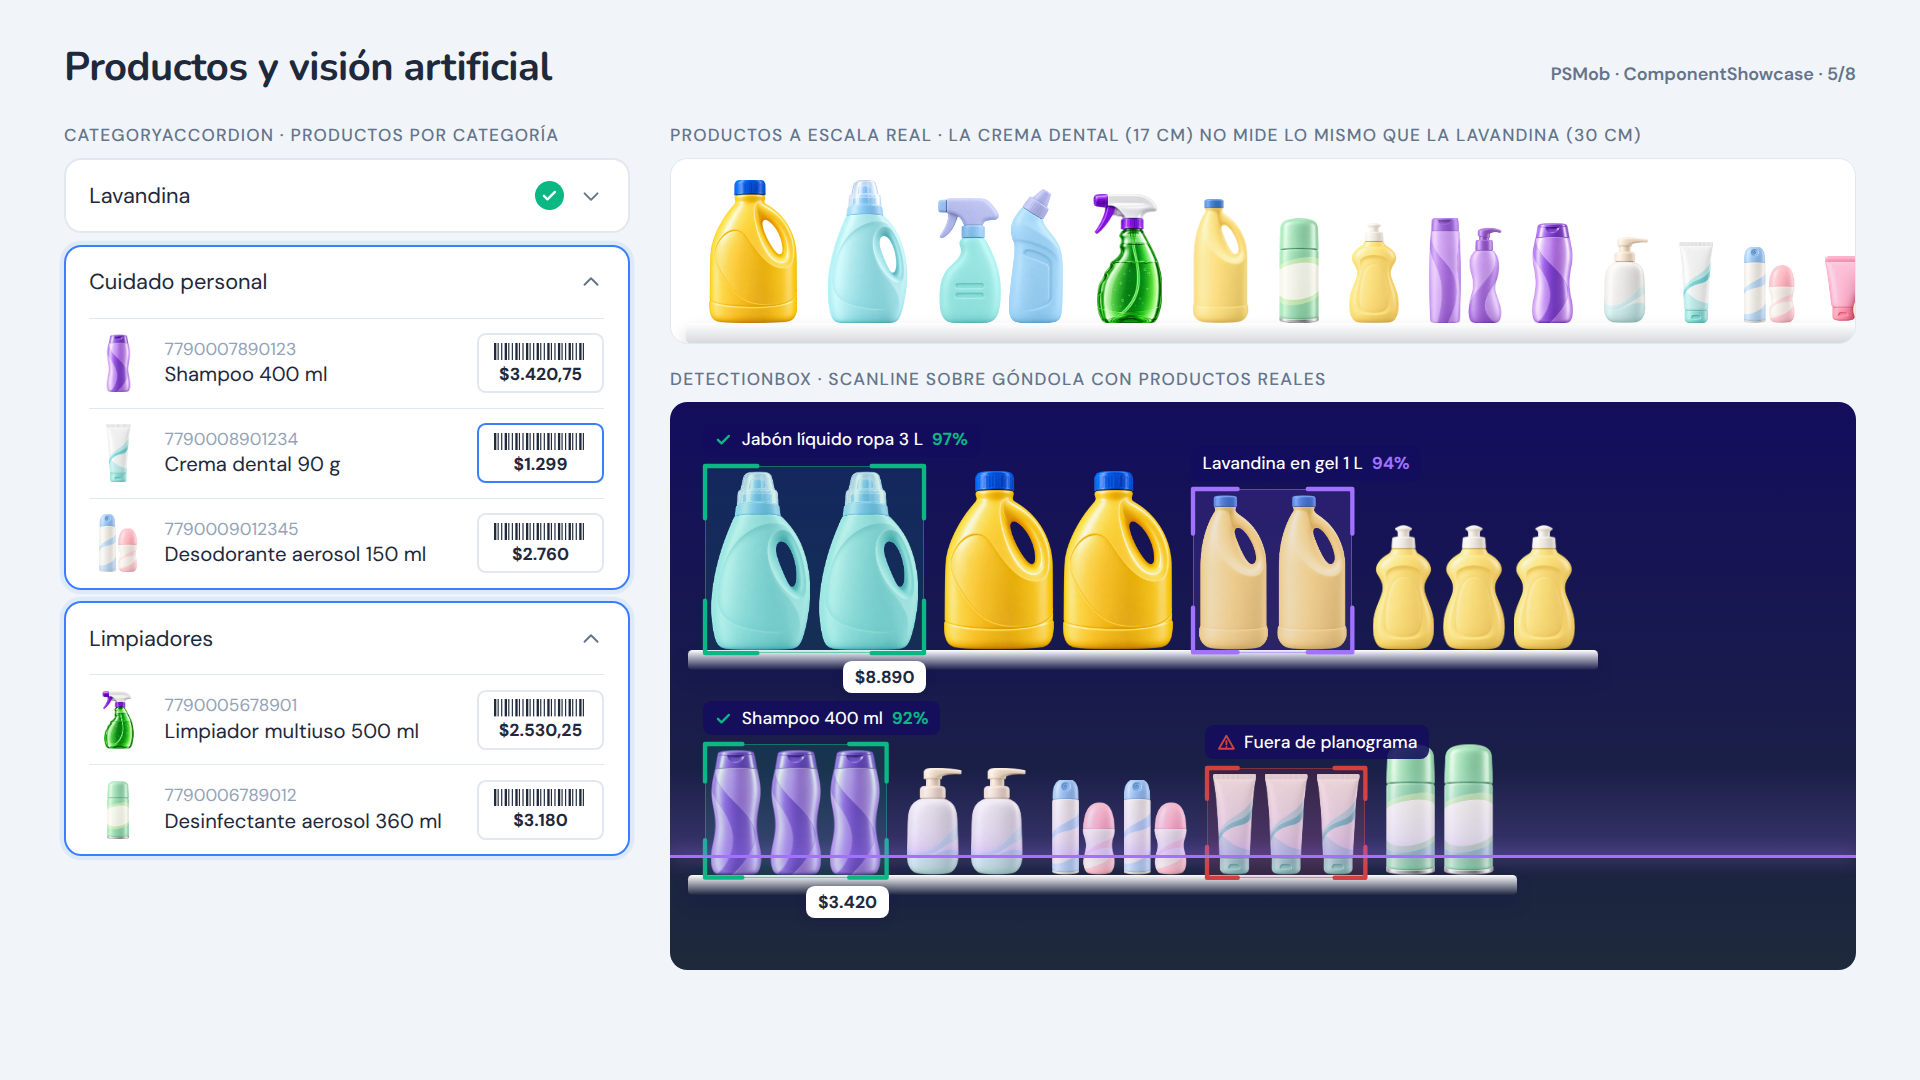
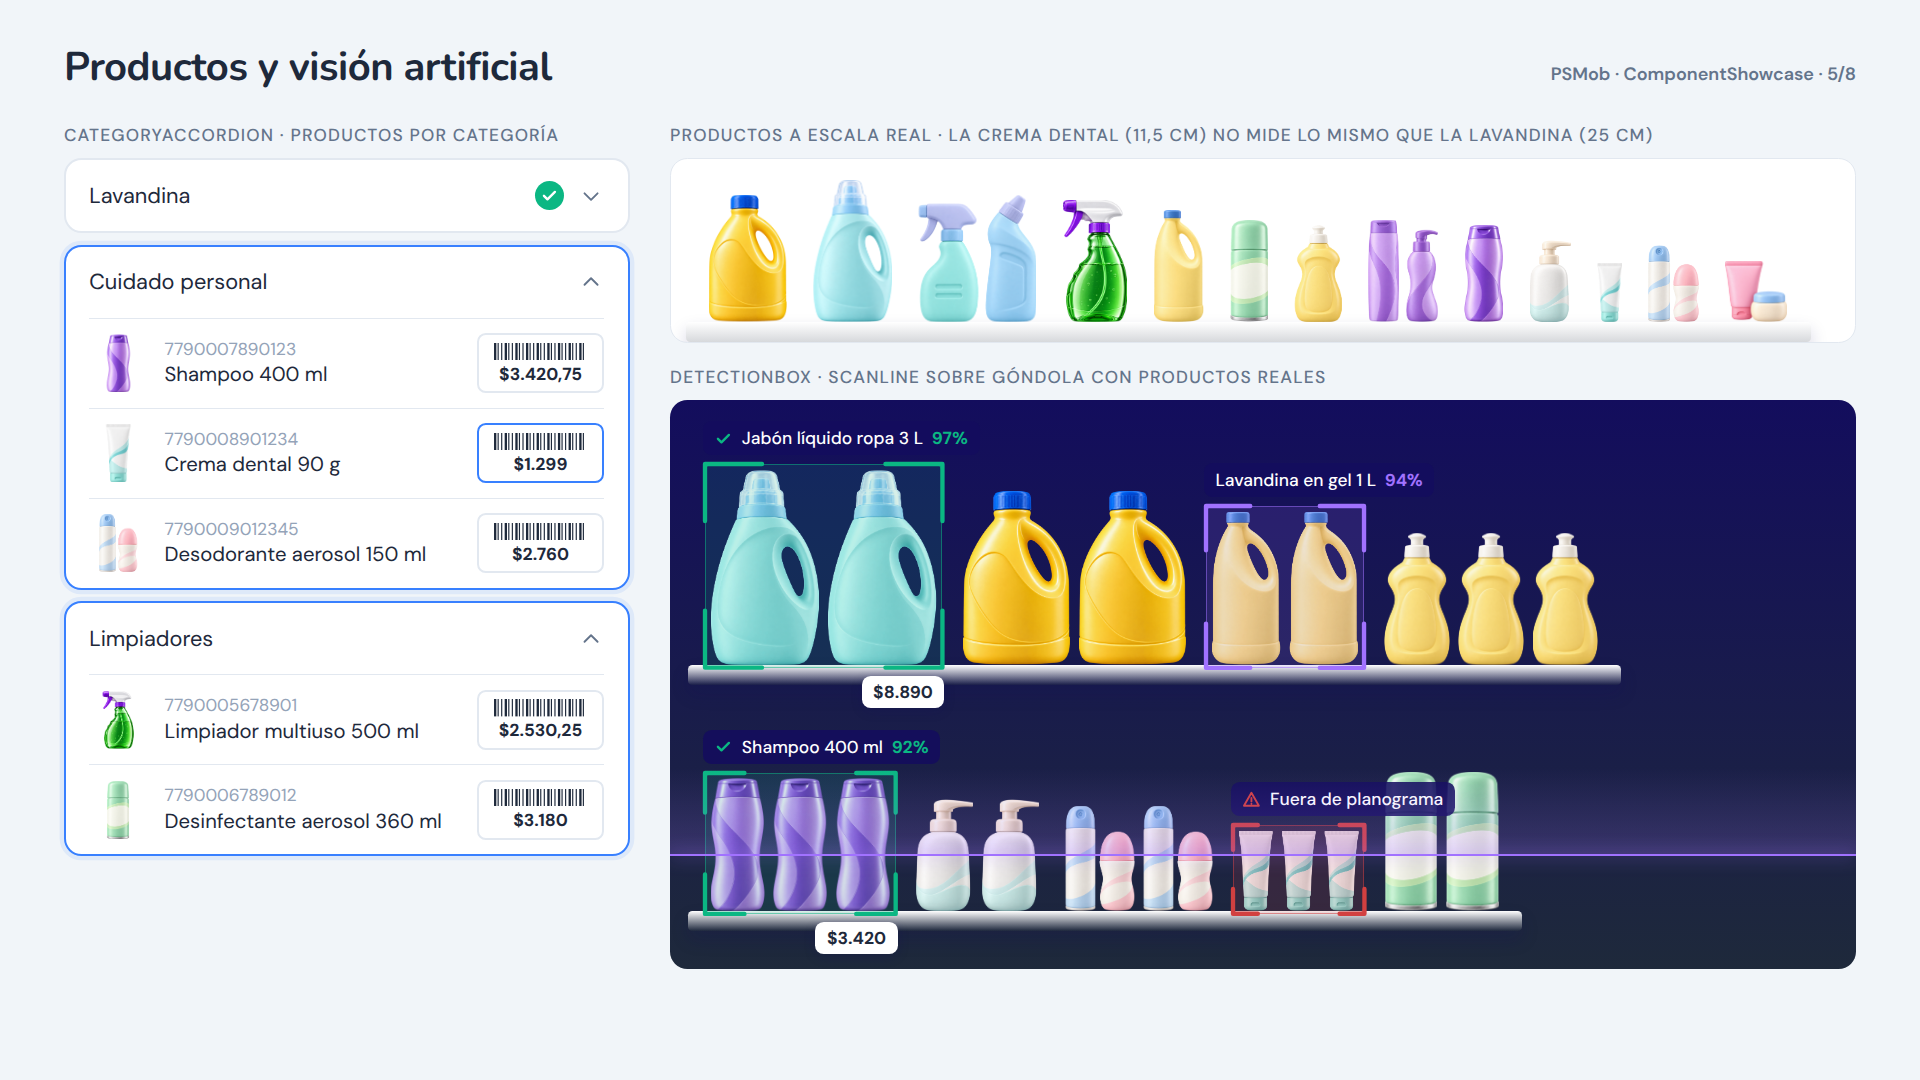
fix(qs-brand-animation): semáforo por cumplimiento del objetivo y alturas de productos
- gaugeStatus: verde solo al llegar al objetivo, amarillo de 50 % a 99 %, rojo menos de 50 %
- Alturas a ojo con referencia lavandina 25 cm y crema dental 11,5 cm
- Ejemplos del showcase con los tres estados

Claude-Session: https://claude.ai/code/session_01TCZn7RvVYdz1ZuWFcgayG7

diff --git a/projects/qs-brand-animation/src/ui/products.ts b/projects/qs-brand-animation/src/ui/products.ts
@@ -1,21 +1,21 @@
-/* Generado desde public/products (bounding box del alfa > 16). Alturas reales aproximadas: ajustables. */
+/* Generado desde public/products (bounding box del alfa > 16). Alturas aproximadas a ojo (referencia: lavandina 25 cm, crema dental 11,5 cm). Ajustables. */
 export type ProductCategory = 'lavandina' | 'ropa' | 'lavavajillas' | 'limpiadores' | 'cuidado';
 export type ProductMeta = { file: string; name: string; category: ProductCategory; heightCm: number; w: number; h: number; bbox: [number, number, number, number] };
 
 export const PRODUCTS = {
-  'aerosol-verde': { file: 'products/aerosol-verde.png', name: 'Desinfectante aerosol 360 ml', category: 'limpiadores', heightCm: 22, w: 1254, h: 1254, bbox: [410, 55, 844, 1200] },
-  'bidon-lavandina-amarillo': { file: 'products/bidon-lavandina-amarillo.png', name: 'Lavandina 2 L', category: 'lavandina', heightCm: 30, w: 1312, h: 1199, bbox: [321, 26, 1029, 1175] },
-  'bidon-limpiador-amarillo': { file: 'products/bidon-limpiador-amarillo.png', name: 'Lavandina en gel 1 L', category: 'lavandina', heightCm: 26, w: 1254, h: 1254, bbox: [401, 87, 889, 1172] },
-  'detergente-liquido-celeste': { file: 'products/detergente-liquido-celeste.png', name: 'Jabón líquido para ropa 3 L', category: 'ropa', heightCm: 30, w: 1254, h: 1254, bbox: [322, 55, 961, 1202] },
-  'dispensador-jabon-celeste': { file: 'products/dispensador-jabon-celeste.png', name: 'Jabón líquido de manos 250 ml', category: 'cuidado', heightCm: 18, w: 1254, h: 1254, bbox: [360, 78, 930, 1185] },
-  'lavavajillas-amarillo': { file: 'products/lavavajillas-amarillo.png', name: 'Lavavajillas 500 ml', category: 'lavavajillas', heightCm: 21, w: 1254, h: 1254, bbox: [354, 82, 900, 1186] },
-  'rociador-limpiador-verde': { file: 'products/rociador-limpiador-verde.png', name: 'Limpiador multiuso gatillo 500 ml', category: 'limpiadores', heightCm: 27, w: 1144, h: 1375, bbox: [236, 26, 936, 1340] },
-  'set-cosmetica-violeta': { file: 'products/set-cosmetica-violeta.png', name: 'Shampoo + acondicionador', category: 'cuidado', heightCm: 22, w: 1254, h: 1254, bbox: [280, 106, 1023, 1186] },
-  'set-crema-rosa': { file: 'products/set-crema-rosa.png', name: 'Crema corporal tubo + pote', category: 'cuidado', heightCm: 14, w: 1254, h: 1254, bbox: [141, 136, 1148, 1119] },
-  'set-desodorante-aerosol-rollon': { file: 'products/set-desodorante-aerosol-rollon.png', name: 'Desodorante aerosol + roll-on', category: 'cuidado', heightCm: 16, w: 1254, h: 1254, bbox: [289, 93, 1010, 1179] },
-  'set-limpieza-celeste': { file: 'products/set-limpieza-celeste.png', name: 'Limpiador baño + inodoro', category: 'limpiadores', heightCm: 28, w: 1254, h: 1254, bbox: [155, 116, 1129, 1162] },
-  'shampoo-violeta': { file: 'products/shampoo-violeta.png', name: 'Shampoo 400 ml', category: 'cuidado', heightCm: 21, w: 1312, h: 1199, bbox: [418, 12, 894, 1180] },
-  'tubo-crema-celeste': { file: 'products/tubo-crema-celeste.png', name: 'Crema dental 90 g', category: 'cuidado', heightCm: 17, w: 1254, h: 1254, bbox: [384, 74, 861, 1192] },
+  'aerosol-verde': { file: 'products/aerosol-verde.png', name: 'Desinfectante aerosol 360 ml', category: 'limpiadores', heightCm: 20, w: 1254, h: 1254, bbox: [410, 55, 844, 1200] },
+  'bidon-lavandina-amarillo': { file: 'products/bidon-lavandina-amarillo.png', name: 'Lavandina 2 L', category: 'lavandina', heightCm: 25, w: 1312, h: 1199, bbox: [321, 26, 1029, 1175] },
+  'bidon-limpiador-amarillo': { file: 'products/bidon-limpiador-amarillo.png', name: 'Lavandina en gel 1 L', category: 'lavandina', heightCm: 22, w: 1254, h: 1254, bbox: [401, 87, 889, 1172] },
+  'detergente-liquido-celeste': { file: 'products/detergente-liquido-celeste.png', name: 'Jabón líquido para ropa 3 L', category: 'ropa', heightCm: 28, w: 1254, h: 1254, bbox: [322, 55, 961, 1202] },
+  'dispensador-jabon-celeste': { file: 'products/dispensador-jabon-celeste.png', name: 'Jabón líquido de manos 250 ml', category: 'cuidado', heightCm: 16, w: 1254, h: 1254, bbox: [360, 78, 930, 1185] },
+  'lavavajillas-amarillo': { file: 'products/lavavajillas-amarillo.png', name: 'Lavavajillas 500 ml', category: 'lavavajillas', heightCm: 19, w: 1254, h: 1254, bbox: [354, 82, 900, 1186] },
+  'rociador-limpiador-verde': { file: 'products/rociador-limpiador-verde.png', name: 'Limpiador multiuso gatillo 500 ml', category: 'limpiadores', heightCm: 24, w: 1144, h: 1375, bbox: [236, 26, 936, 1340] },
+  'set-cosmetica-violeta': { file: 'products/set-cosmetica-violeta.png', name: 'Shampoo + acondicionador', category: 'cuidado', heightCm: 20, w: 1254, h: 1254, bbox: [280, 106, 1023, 1186] },
+  'set-crema-rosa': { file: 'products/set-crema-rosa.png', name: 'Crema corporal tubo + pote', category: 'cuidado', heightCm: 12, w: 1254, h: 1254, bbox: [141, 136, 1148, 1119] },
+  'set-desodorante-aerosol-rollon': { file: 'products/set-desodorante-aerosol-rollon.png', name: 'Desodorante aerosol + roll-on', category: 'cuidado', heightCm: 15, w: 1254, h: 1254, bbox: [289, 93, 1010, 1179] },
+  'set-limpieza-celeste': { file: 'products/set-limpieza-celeste.png', name: 'Limpiador baño + inodoro', category: 'limpiadores', heightCm: 25, w: 1254, h: 1254, bbox: [155, 116, 1129, 1162] },
+  'shampoo-violeta': { file: 'products/shampoo-violeta.png', name: 'Shampoo 400 ml', category: 'cuidado', heightCm: 19, w: 1312, h: 1199, bbox: [418, 12, 894, 1180] },
+  'tubo-crema-celeste': { file: 'products/tubo-crema-celeste.png', name: 'Crema dental 90 g', category: 'cuidado', heightCm: 11.5, w: 1254, h: 1254, bbox: [384, 74, 861, 1192] },
 } as const satisfies Record<string, ProductMeta>;
 
 export type ProductId = keyof typeof PRODUCTS;

diff --git a/projects/qs-brand-animation/src/showcase/pages.tsx b/projects/qs-brand-animation/src/showcase/pages.tsx
@@ -370,7 +370,7 @@ export const PageData: React.FC = () => {
               <GaugeTile label="OSA" value={64} target={85} progress={p(2)} width={171} />
               <GaugeTile label="Exhibición" value={64} status="neutral" progress={p(2)} width={171} />
               <GaugeTile label="Formularios" value={89} target={85} progress={p(2)} width={171} />
-              <GaugeTile label="Cuota" value={89} target={100} status="ok" progress={p(2)} width={171} />
+              <GaugeTile label="Cuota" value={42} target={100} progress={p(2)} width={171} />
             </div>
           </Section>
         </Col>
@@ -431,10 +431,10 @@ const groupRect = (items: ShelfItem[], group: number, pxPerCm: number) => {
 
 export const PageProducts: React.FC = () => {
   const p = (i: number) => usePageProgress(i, 5);
-  const PXC = 4.1;
+  const PXC = 4.8;
   const GX = 28;
   const topY = 48;
-  const botY = 236;
+  const botY = 256;
   const top = SHELF_TOP;
   const bot = SHELF_BOTTOM;
   const tallTop = Math.max(...shelfLayout(top, PXC).facings.map((f) => f.height));
@@ -456,9 +456,9 @@ export const PageProducts: React.FC = () => {
           </Section>
         </Col>
         <div style={{ flex: 1, minWidth: 0, display: 'flex', flexDirection: 'column', gap: 16 }}>
-          <Section label="Productos a escala real · la crema dental (17 cm) no mide lo mismo que la lavandina (30 cm)">
+          <Section label="Productos a escala real · la crema dental (11,5 cm) no mide lo mismo que la lavandina (25 cm)">
             <div style={{ padding: '14px 26px 0', borderRadius: radius.md, background: colors.white, overflow: 'hidden', border: `1px solid ${ui.border}`, opacity: p(2) }}>
-              <Shelf items={LINEUP} pxPerCm={3.3} gap={7} />
+              <Shelf items={LINEUP} pxPerCm={3.5} gap={6} />
             </div>
           </Section>
           <Section label="DetectionBox · ScanLine sobre góndola con productos reales">

diff --git a/projects/qs-brand-animation/src/tokens.ts b/projects/qs-brand-animation/src/tokens.ts
@@ -76,9 +76,16 @@ export const gaugeColors = {
   dark: { ok: '#41D175', warn: '#FDE047', bad: '#D24040', neutral: '#67A9F5', track: 'rgba(181, 202, 241, 0.3)', value: '#FFFFFF', unit: '#93C5FD', label: '#FFFFFF', target: '#3FD073', targetText: '#86EFAC', tile: 'rgba(0, 0, 0, 0.3)' },
 } as const;
 
-/** Estado por defecto respecto del objetivo: ≥ objetivo ok, hasta 10 puntos abajo warn, más abajo bad. */
-export const gaugeStatus = (value: number, target?: number): GaugeStatus =>
-  target === undefined ? 'neutral' : value >= target ? 'ok' : value >= target - 10 ? 'warn' : 'bad';
+/**
+ * Semáforo por cumplimiento del objetivo (valor ÷ objetivo):
+ * verde solo si llega al objetivo (≥ 100 %), amarillo de 50 % a 99 %, rojo por debajo de 50 %.
+ * Sin objetivo el indicador es neutral (azul).
+ */
+export const gaugeStatus = (value: number, target?: number): GaugeStatus => {
+  if (target === undefined || target <= 0) return 'neutral';
+  const pct = (value / target) * 100;
+  return pct >= 100 ? 'ok' : pct >= 50 ? 'warn' : 'bad';
+};
 
 /** Roles semánticos de UI, derivados de los tokens. */
 export const ui = {

diff --git a/projects/qs-brand-animation/src/ui/Product.tsx b/projects/qs-brand-animation/src/ui/Product.tsx
@@ -3,7 +3,7 @@ import { Img, staticFile } from 'remotion';
 import { alpha, colors, radius, ui } from '../tokens';
 import { PRODUCTS, ProductId, ProductMeta } from './products';
 
-/** Escala por defecto: px de pantalla por cm real. Con 7 px/cm una lavandina de 30 cm mide 210 px. */
+/** Escala por defecto: px de pantalla por cm real. Con 7 px/cm una lavandina de 25 cm mide 175 px. */
 export const PX_PER_CM = 7;
 
 const meta = (id: ProductId): ProductMeta => PRODUCTS[id];

diff --git a/projects/qs-brand-animation/src/ui/Gauge.tsx b/projects/qs-brand-animation/src/ui/Gauge.tsx
@@ -139,7 +139,7 @@ export const IndicatorCard: React.FC<{
   items = [
     { label: 'OSA', value: 91, target: 85 },
     { label: 'Precios', value: 79, target: 85 },
-    { label: 'Cuota', value: 64, target: 85 },
+    { label: 'Cuota', value: 42, target: 100 },
   ],
   updated = '10:39',
   progress = 1,

diff --git a/projects/qs-brand-animation/README.md b/projects/qs-brand-animation/README.md
@@ -32,7 +32,7 @@ Todo está cargado en `/public`: logos oficiales, 18 poses de Caro, 15 de Nico y
 - **Poses:** `src/characters/poses.ts` guarda el bounding box de cada pose. `<Character height={…}>` escala de forma uniforme para que la figura mida lo mismo de pie en todas las poses, con los pies en `y`. Las poses sentadas y la caída usan un factor aproximado.
 - **Caminata:** `<CharacterWalk frames={WALK_FRAMES.nico}>` alterna los fotogramas de la zancada con un leve rebote vertical. Los fotogramas entregados son de una sola fase; para un ciclo completo faltan los de la pierna contraria.
 - **Productos:** `src/ui/products.ts` guarda la categoría y la altura real (cm) de cada producto. `<Product>` y `<Shelf>` dibujan a escala real, así que una crema dental no mide lo mismo que una lavandina. `<ProductThumb>` es la miniatura para listas. Las alturas son aproximadas y se pueden ajustar.
-- **Indicadores:** `<Gauge>` es el medio círculo de `indicadores_svg`, con valor coloreado por estado y un punto que marca el objetivo. Tiene tres variantes: `GaugeCard` (fondo claro), `GaugeTile` (sobre el header) e `IndicatorCard` (resumen de la home). El estado sale de `gaugeStatus()` o se pasa explícito.
+- **Indicadores:** `<Gauge>` es el medio círculo de `indicadores_svg`, con valor coloreado por estado y un punto que marca el objetivo. Tiene tres variantes: `GaugeCard` (fondo claro), `GaugeTile` (sobre el header) e `IndicatorCard` (resumen de la home). El color sale del cumplimiento del objetivo (valor ÷ objetivo): verde solo si llega al 100 %, amarillo de 50 % a 99 % y rojo por debajo de 50 %. Sin objetivo, el indicador va en azul neutral.
 - **Isotipo:** `src/brand/isoPaths.ts` separa el SVG oficial en 20 triángulos (uno por subpath) para la escena 13, sin redibujar nada. `<IsoTriangles triangle={(i) => …}>` los anima por separado.
 - **Referencia de pantallas PSMob:** `reference/psmob/`.
 

diff --git a/projects/qs-brand-animation/STORYBOARD.md b/projects/qs-brand-animation/STORYBOARD.md
@@ -175,7 +175,7 @@ Fase 1. Fuente de verdad del timing: `src/timeline.ts`. Los markers de sonido sa
 
 ## 9 · AiFred — 37.4–42.4 s (f 1122–1271)
 
-**Qué pasa:** entorno de supermercado. Nico entra caminando con travelling lateral, sobre góndolas con `Shelf` a escala real (sin marcas ni texto legible). Levanta el celular y la cámara hace zoom through.
+**Qué pasa:** entorno de supermercado. Nico entra caminando con travelling lateral, sobre góndolas con `Shelf` a escala real (sin marcas ni texto legible; lavandina 25 cm, crema dental 11,5 cm). Levanta el celular y la cámara hace zoom through.
 
 - **Cámara**
   - t0: `600, 540, z 1`
